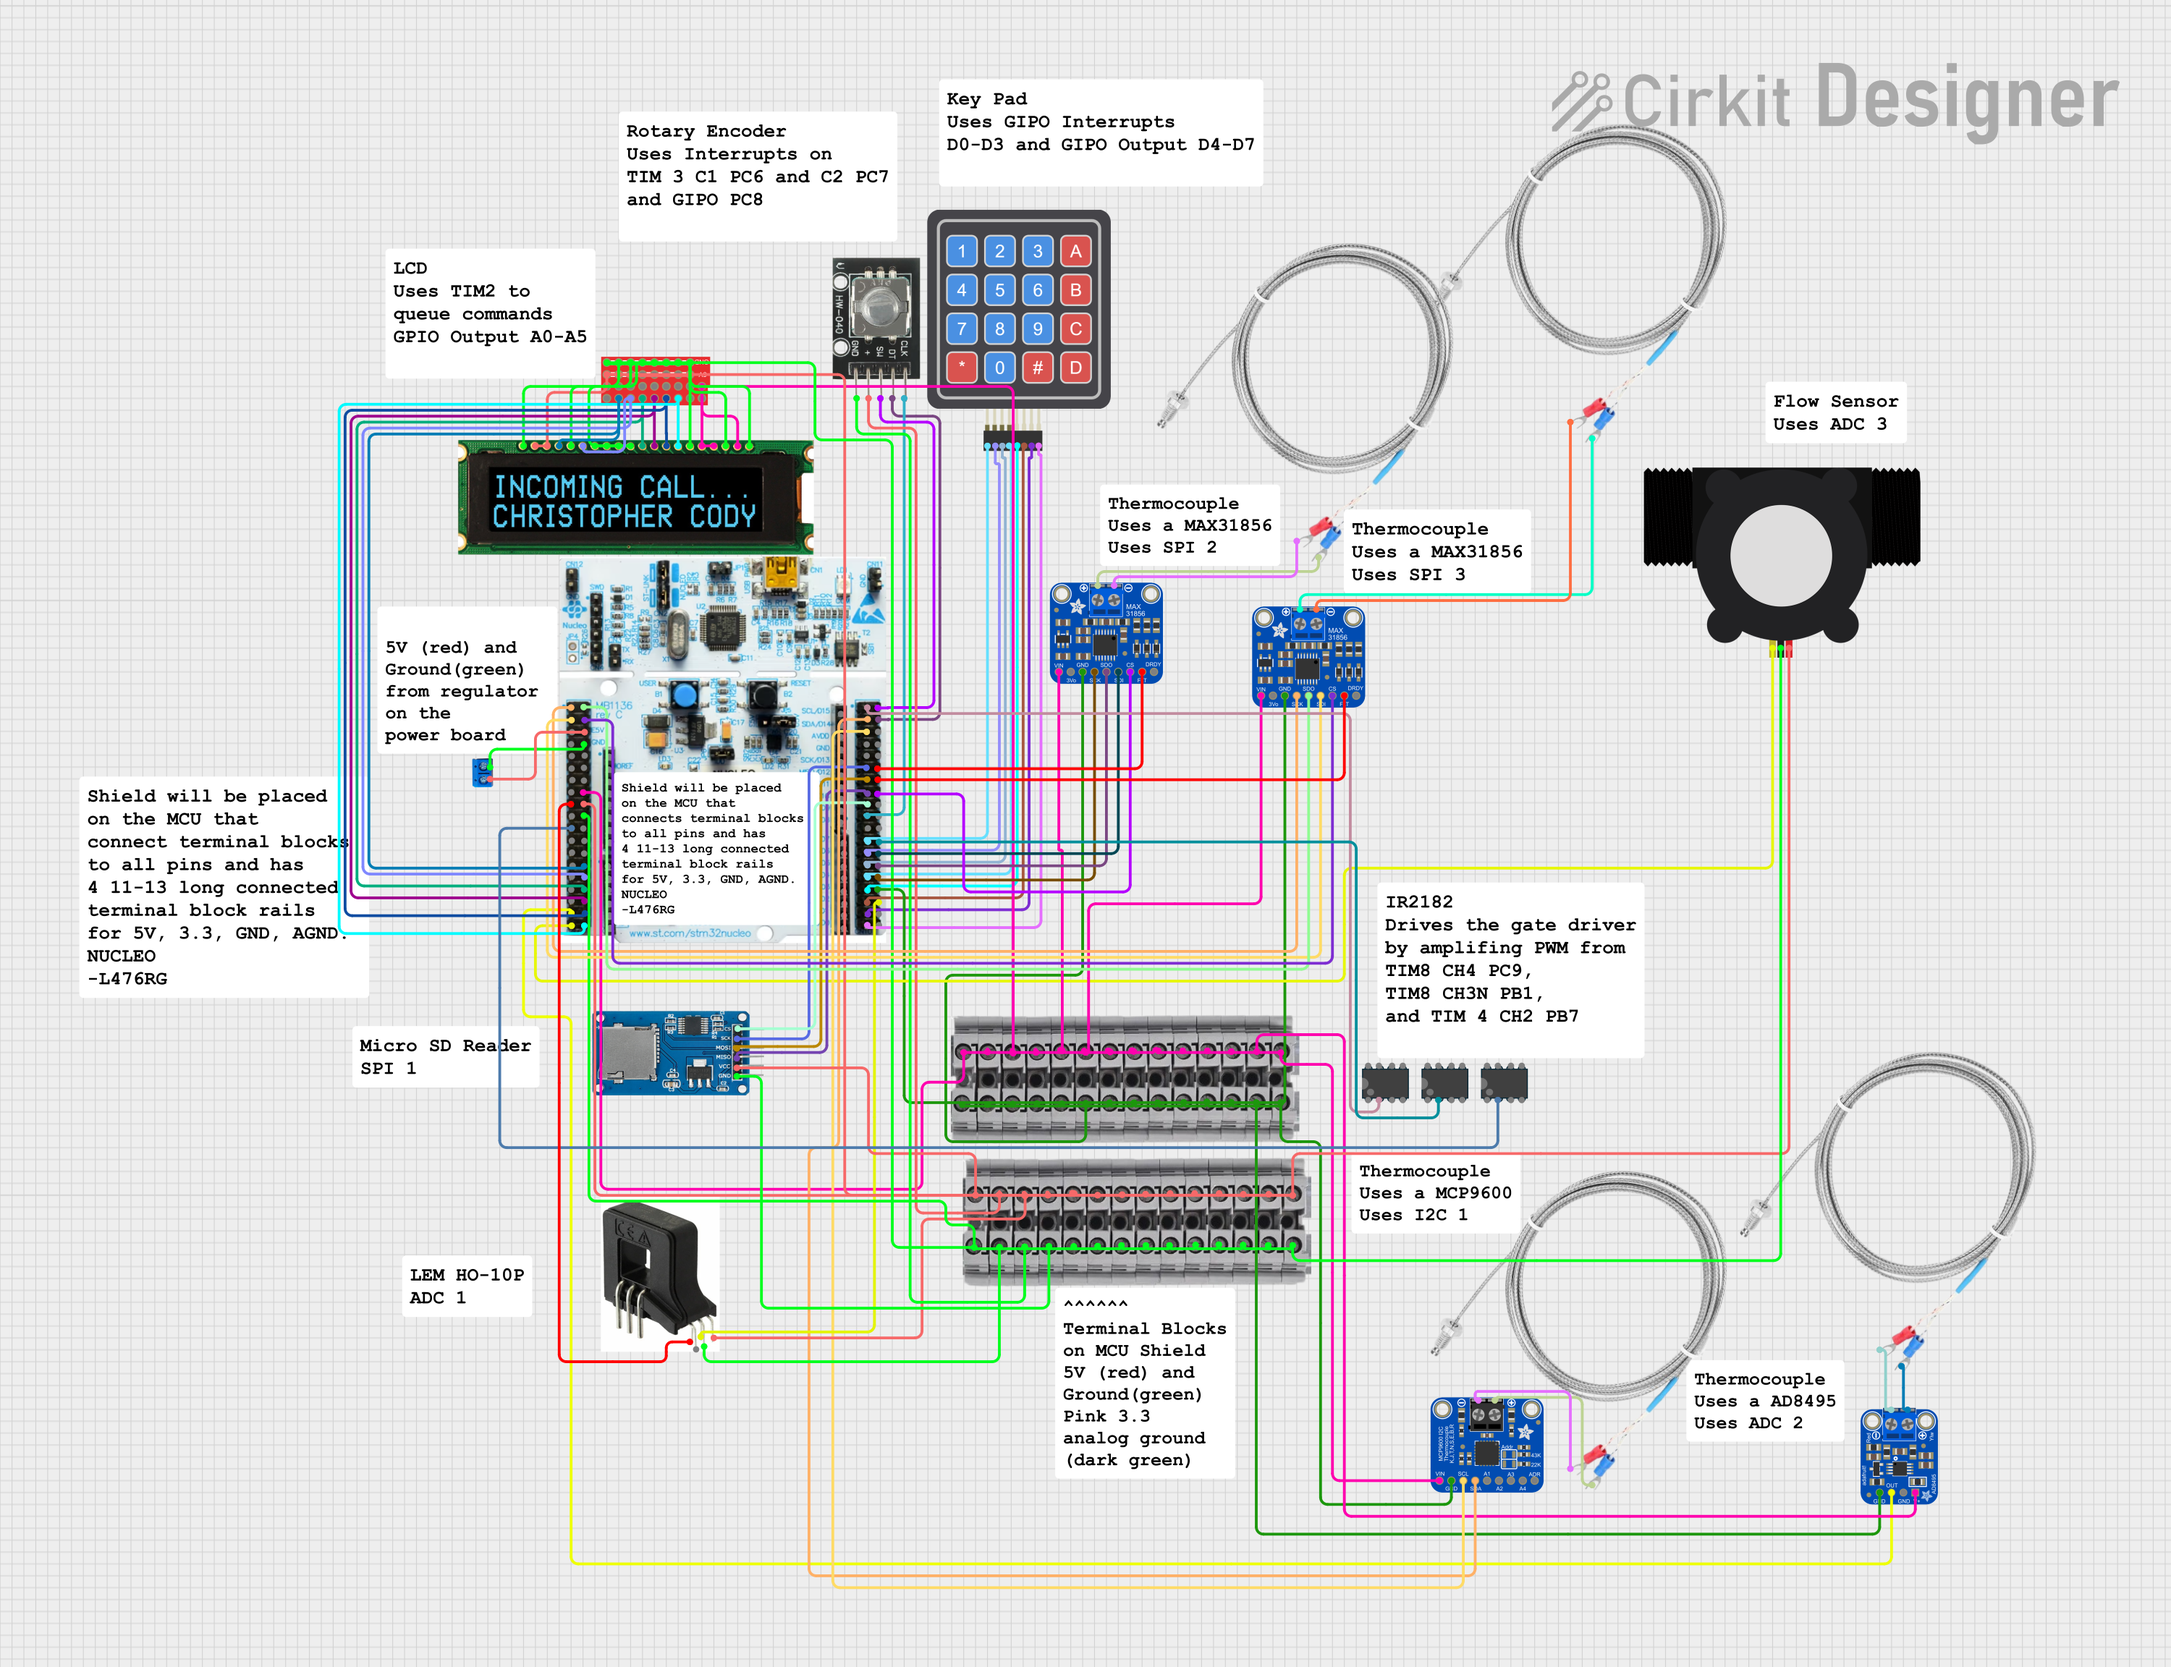
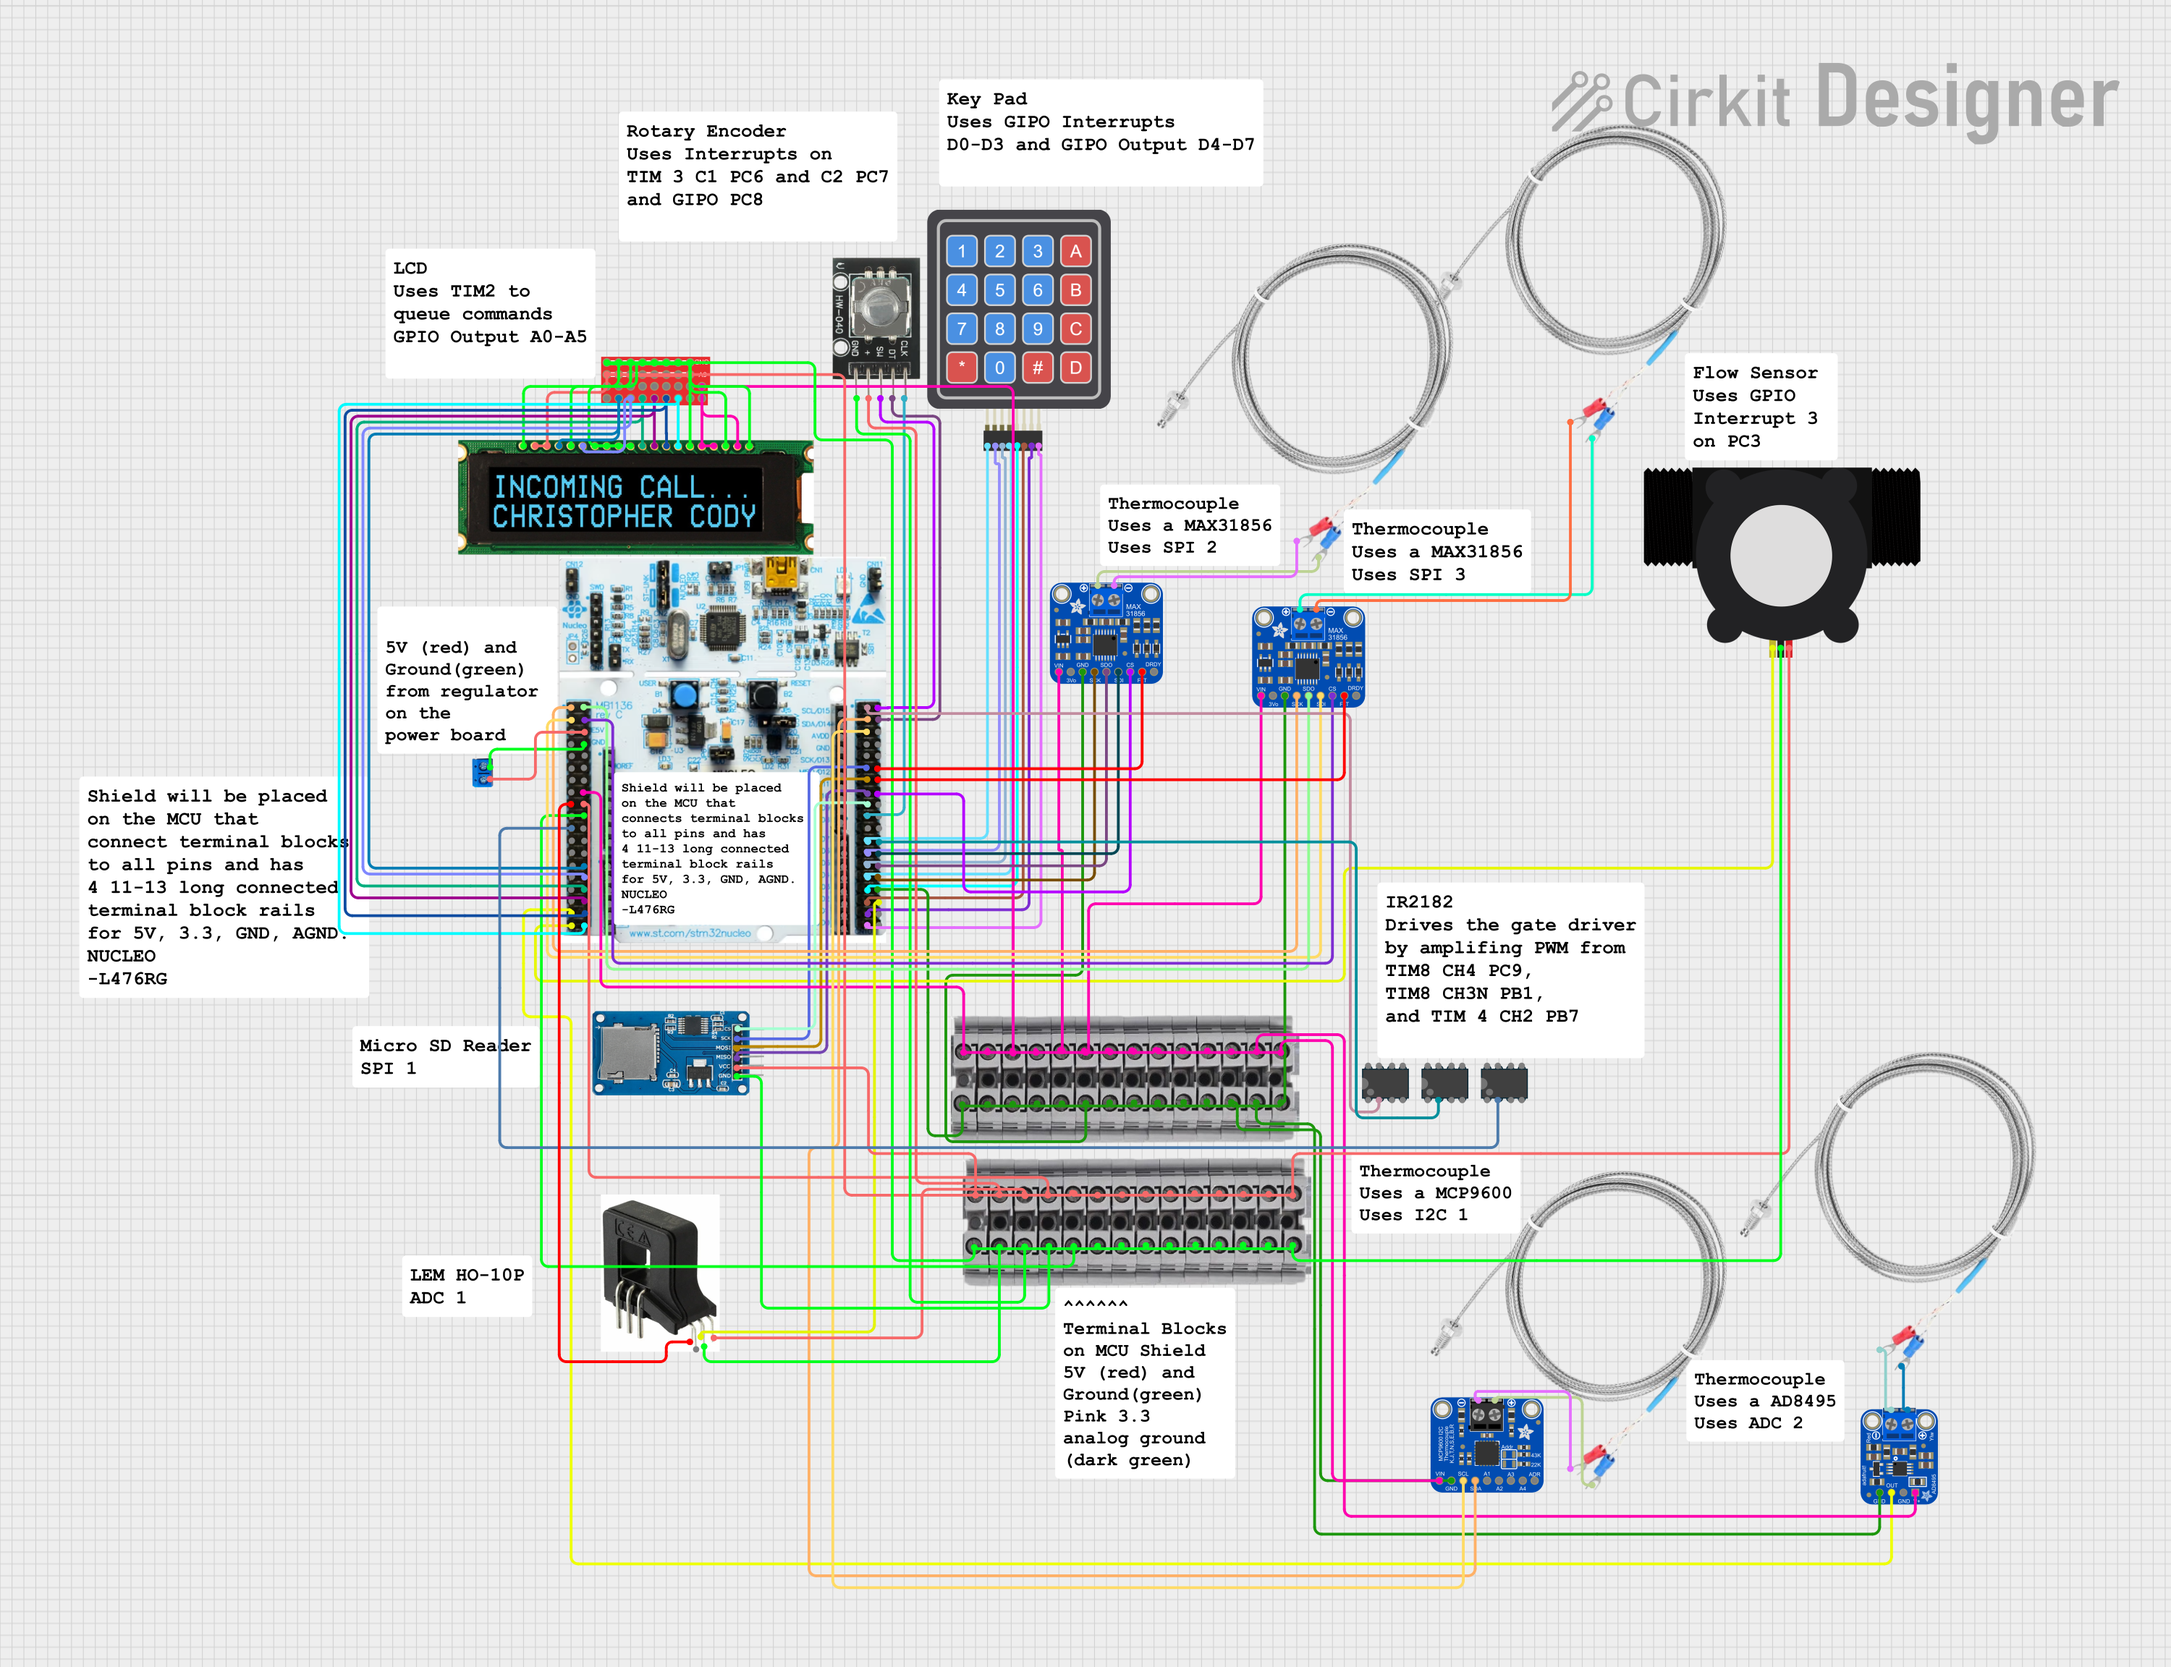
updated digram to reflect new info on flow sesnor

diff --git a/Reports/Detailed Design Embedded.md b/Reports/Detailed Design Embedded.md
@@ -96,7 +96,7 @@ Provide detailed information about the inputs, outputs, and data transferred to 
  8. Rotary Encoder
    The Rotary Encoder will be able to change values for the system as well depending on the mode of the lcd. This uses TIM 3 in encoder mode on channels 1 and 2 on interrupts to determine if the encoder has changed position. PC6 is TIM 3 CH1 and PC7 is TIM 3 CH2. the Buttons use on PC8 is TBD [8] [15].
  9. Flow Sensor
-   The flow sensor will use ADC 3 CH 4 on PC3. The flow sensor will detect when the water is flowing then turn of the induction gate driver [8] [16].
+   The flow sensor will use GPIO Interrupt 3 on PC3. The flow sensor will detect when the water is flowing then turn of the induction gate driver [8] [16].
  10. Current Sensor
    The current sensor will use ADC 2 CH 3 on PC2. The current sensor will make electrical current flowing in the system is at a safe value so that components don't explode [17] [8].
 
@@ -185,7 +185,7 @@ The keypad will be used to set the desired temp and interface with the system. t
 
 Adafruit Micro SD Card Interface will be used to save the state of the system and log the systems vials over time. The Micro SD Interface is used over ROM as the Interface is easier viewable on a computer for displaying data. The Interface will use SPI 1 configured to full duplex master. [9]
 
-Liquid Flow Meter will determine if the system is sending power. Having a flow meter to control the sending of power is standard in most tankless water heaters.
+Liquid Flow Meter will determine if the system is sending power. Having a flow meter to control the sending of power is standard in most tankless water heaters. The system will use a GPIO Interrupts to count the pulses per second which is 7.5 times more than the flow rate in Liters per minute.
 
 The Microcontroller will have to interface will the power board by sending 20-50Khz PWM signals. Two that are 180 degrees out of phase which can be done via a negated timer alternate pin. The power board also needs a 80Khz PWM signal. The MCU will also receive 5V from a regulator on the power board.
 
